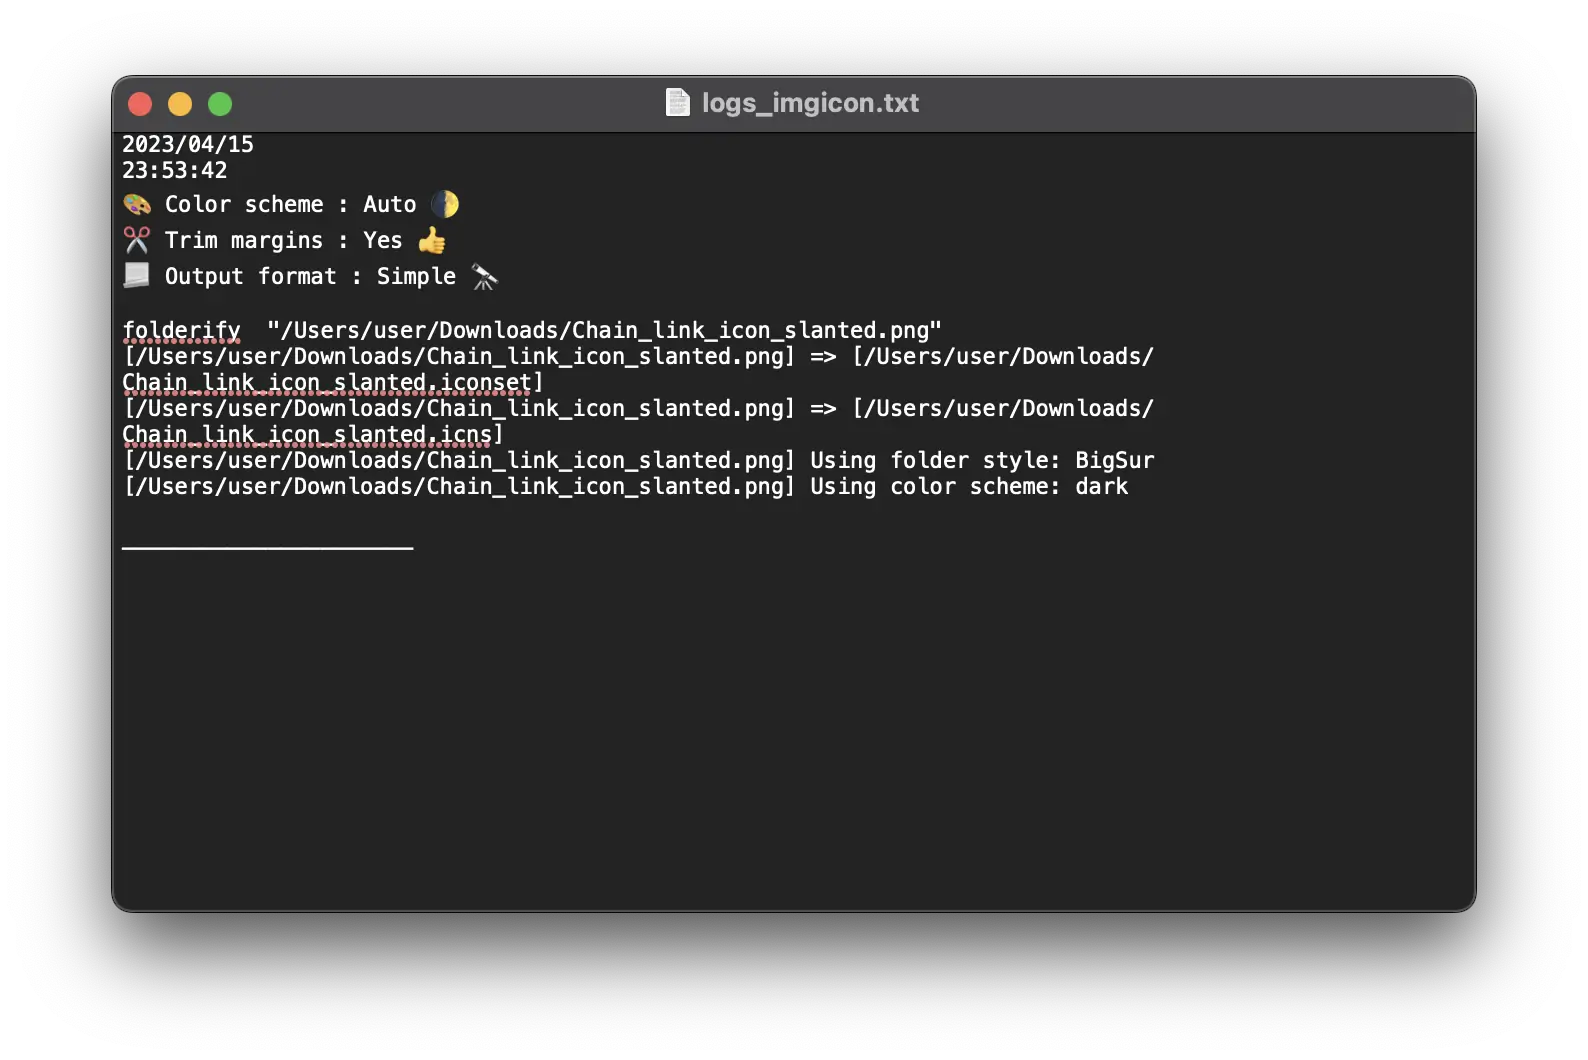
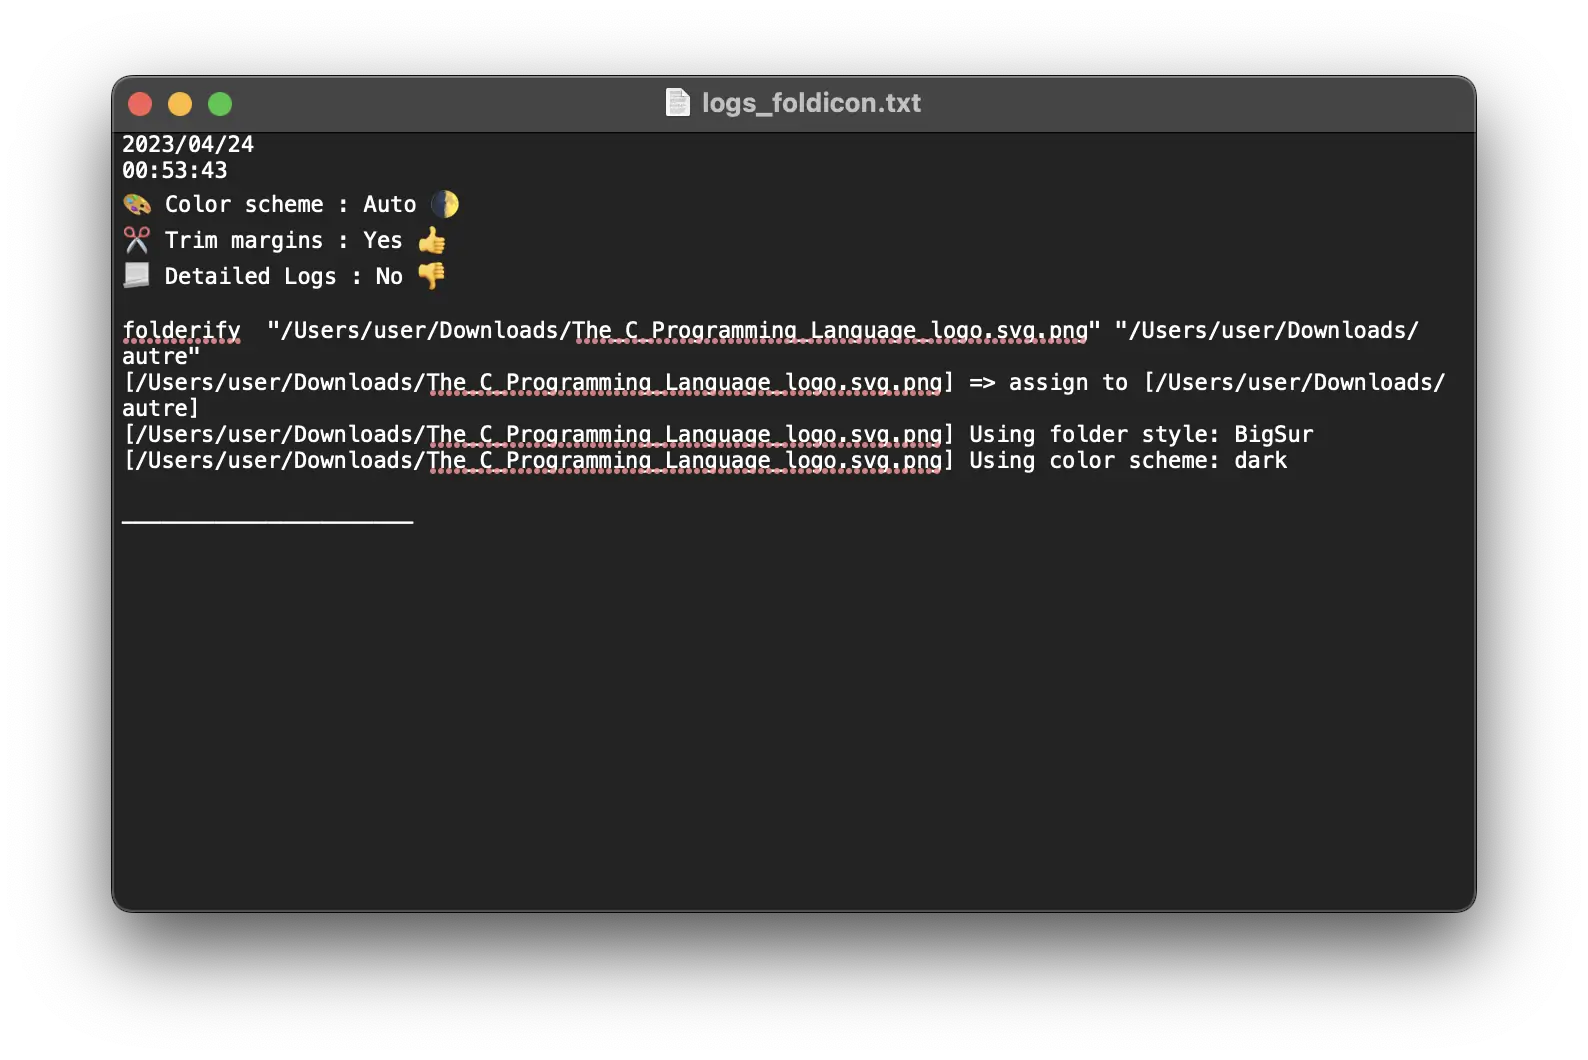
refactor: user configuration panel

diff --git a/README.md b/README.md
@@ -63,15 +63,13 @@ You can edit these triggers (flagged with a `🕹` symbol) in the user config
 
 ![big_sur_light](public/big_sur_light.webp)
 
-> Note that the --color-scheme argument is only available for `Big Sur 🍌` (--macOS 11.0) and above.
+1. `✂ Trim margins` corresponds to the `--no-trim` folderify argument.
 
-3. `✂ Trim margins` corresponds to the `--no-trim` folderify argument.
-
-`Yes 👍` : transparent margins are trimmed from all 4 sides.
+`Yes 👍` : checkbox is ticked, transparent margins are trimmed from all 4 sides.
 
 ![big_sur_dark](public/big_sur_dark.webp)
 
-`No 👎` : --no-trim. Keeps transparent margins from the mask.
+`No 👎` : checkbox is unticked, --no-trim. Keeps transparent margins from the mask.
 
 ![no_trim](public/no_trim.webp)
 
@@ -79,19 +77,19 @@ Here is a small schema to explain the principle :
 
 ![schema_trim](public/schema_trim.webp)
 
-4. `📃 Output format` : corresponds to the `--verbose` folderify argument. 
+4. `📃 Detailed Logs` : corresponds to the `--verbose` folderify argument. 
 
-`Simple 🔭` : simple output.
-
-![log_simple](public/log_simple.webp)
-
-`Detailed 🔬` : --verbose, detailed output.
+`Yes 👍` : checkbox is ticked, --verbose, detailed output.
 
 ![log_detailed](public/log_detailed.webp)
 
-5. `🔫 Workflow action`. Open/Reveal in finder the log file, display a post notification or do nothing.
+`No 👎` : checkbox is unticked, simple output.
 
-6. `🎷 Notification sound`. Set notification sound for this workflow.
+![log_simple](public/log_simple.webp)
+
+1. `🔫 Workflow action`. Open/Reveal in finder the log file, display a post notification or do nothing.
+
+2. `🎷 Notification sound`. Set notification sound for this workflow.
 
 > As of version 1.4.0, this is no longer possible to generate old folder style (leopard / yosemite). You can still download v2 of folderify [here](https://pypi.org/project/folderify/).
 
@@ -153,7 +151,7 @@ Check the logs of the folderify command under the `📂 Data folder`. The log fi
 3. Folderify command detailed.
 4. Folderify output.
 
-> Note that each workflow run is separated by a line.
+> Note that each workflow run is separated by an horizontal rule.
 
 ![log_simple](public/log_simple.webp)
 
